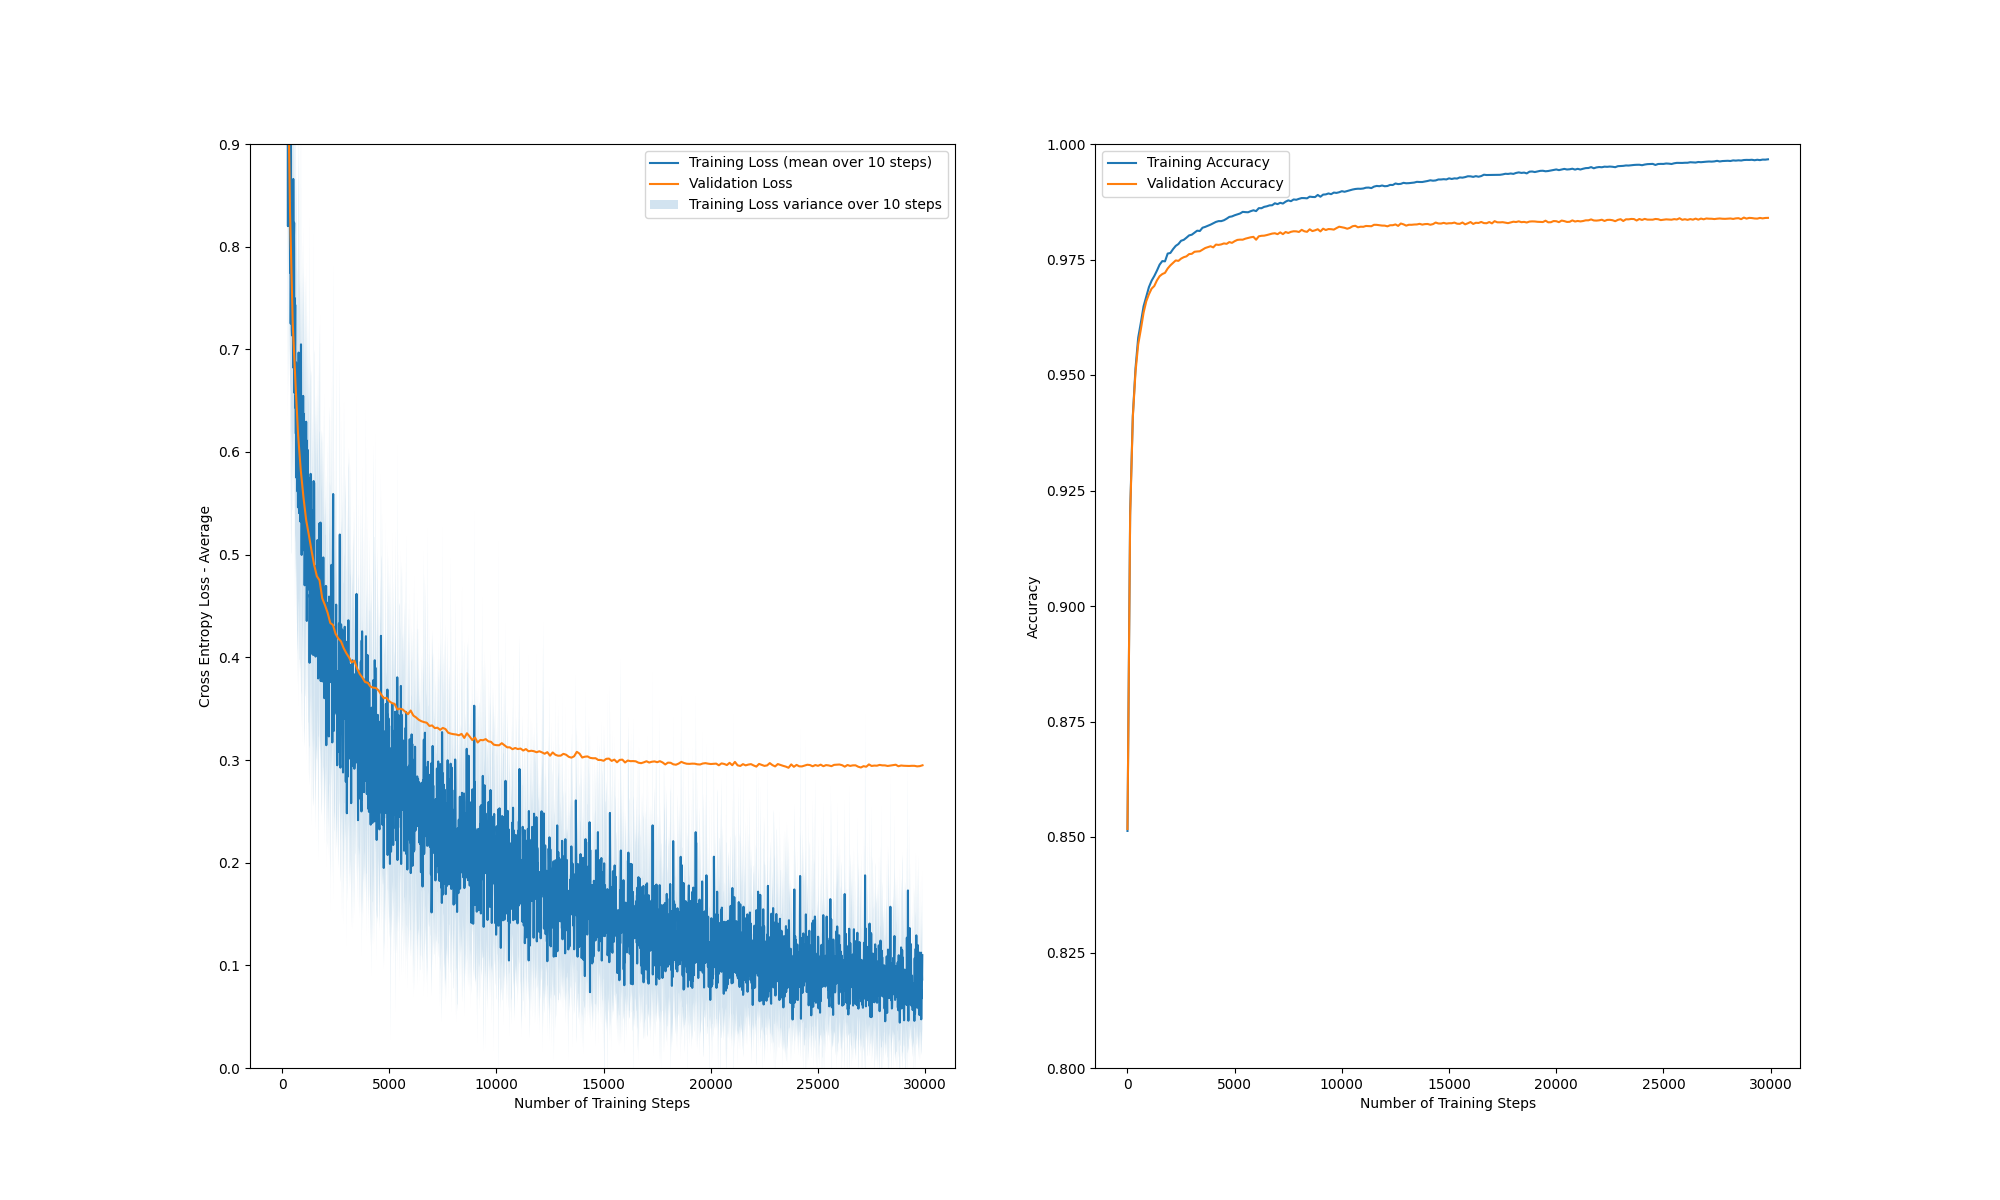
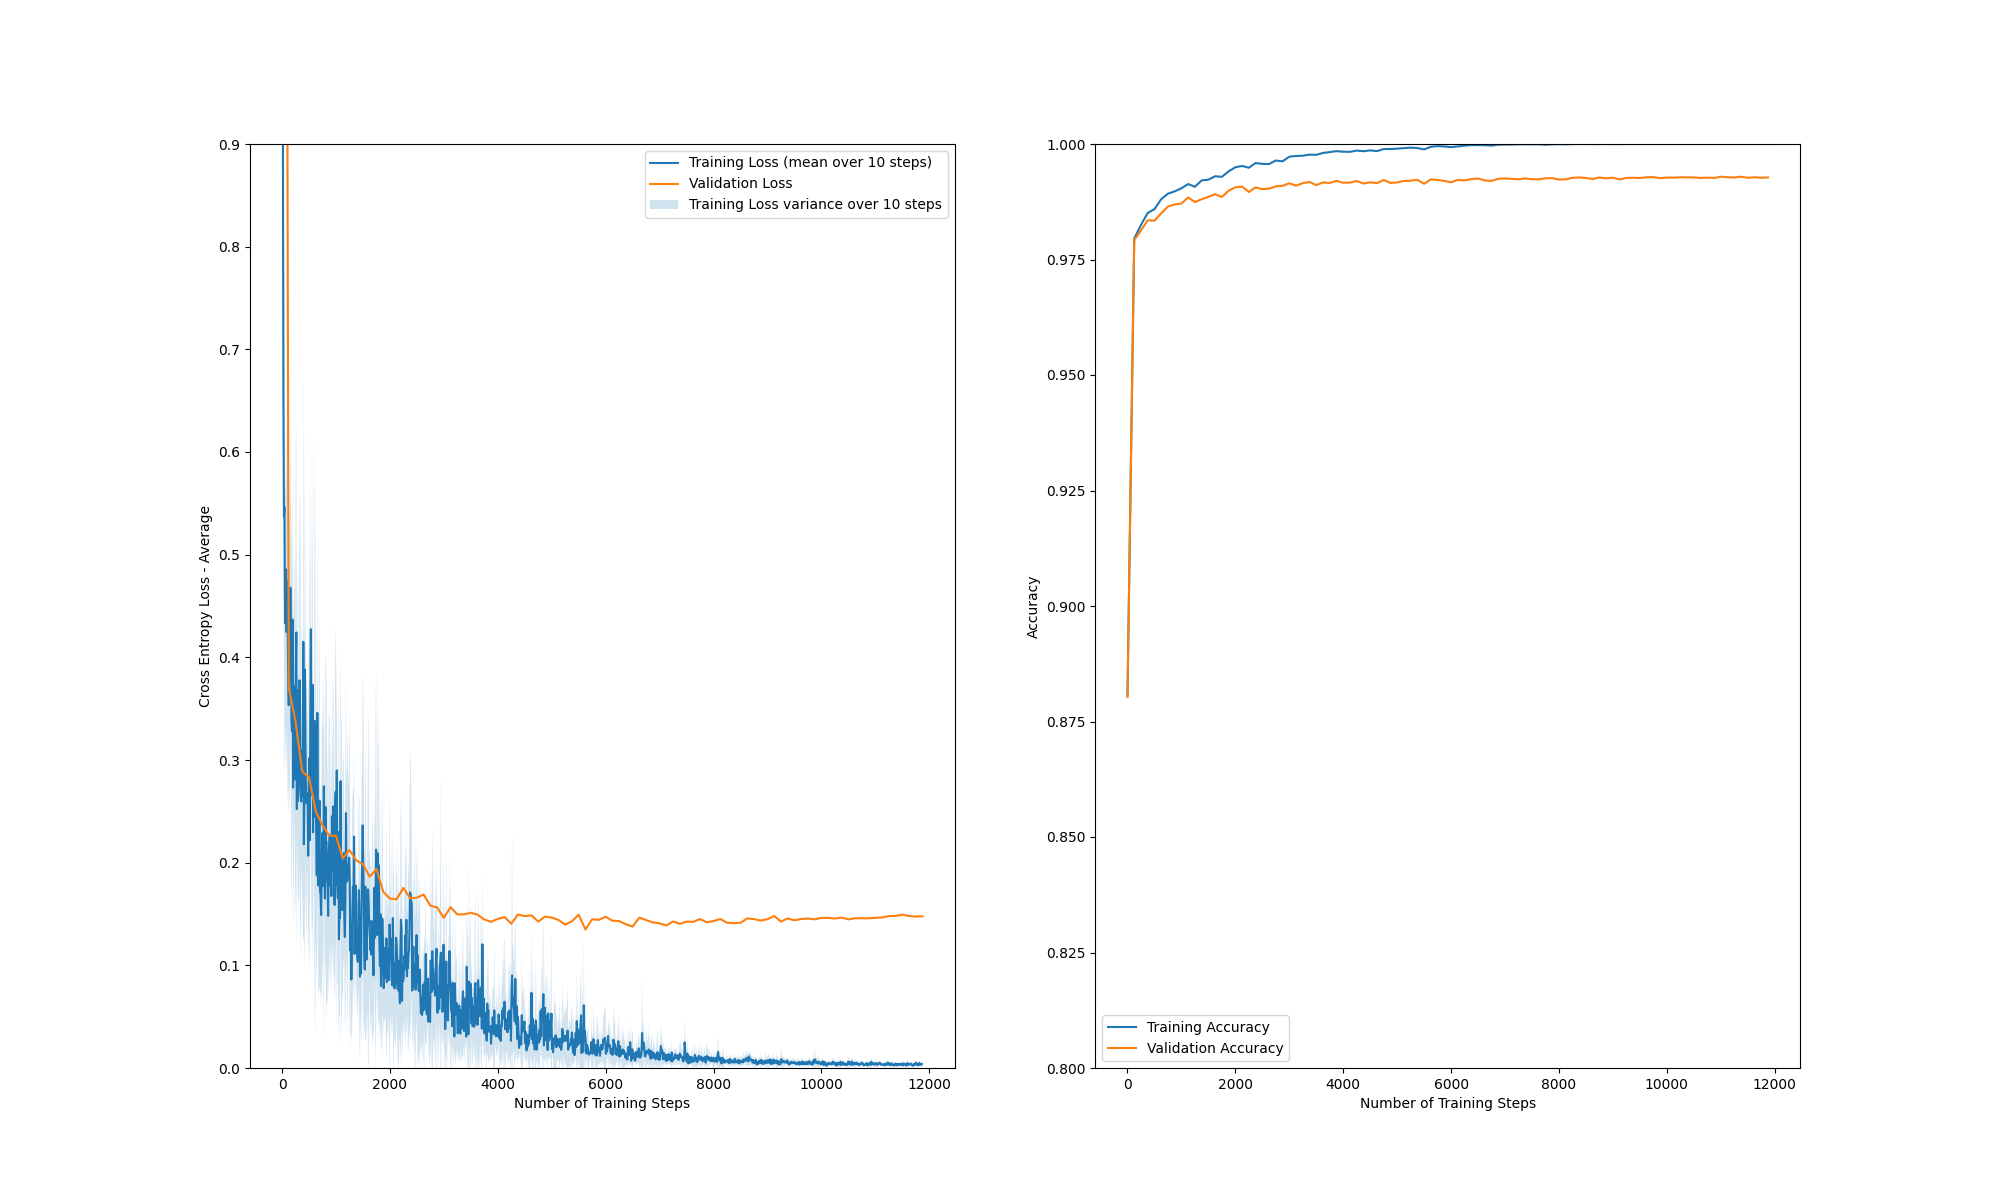
task 4 progression

diff --git a/assignment2/task3.py b/assignment2/task3.py
@@ -7,15 +7,15 @@ from task2 import SoftmaxTrainer
 def main():
     # hyperparameters DO NOT CHANGE IF NOT SPECIFIED IN ASSIGNMENT TEXT
     num_epochs = 50
-    learning_rate = .1
+    learning_rate = .02
     batch_size = 32
     neurons_per_layer = [64, 10]
     momentum_gamma = .9  # Task 3 hyperparameter
     shuffle_data = True
 
-    use_improved_sigmoid = False
-    use_improved_weight_init = False
-    use_momentum = False
+    use_improved_sigmoid = True
+    use_improved_weight_init = True
+    use_momentum = True
     use_relu = False
 
     # Load dataset
@@ -24,6 +24,10 @@ def main():
     X_val = pre_process_images(X_val)
     Y_train = one_hot_encode(Y_train, 10)
     Y_val = one_hot_encode(Y_val, 10)
+
+
+    # this is for task 4 a) and b).
+    # the commented out code below was used for task 3.
 
     model = SoftmaxModel(
         neurons_per_layer,
@@ -37,42 +41,131 @@ def main():
     )
     train_history, val_history = trainer.train(num_epochs)
 
+    model_32 = SoftmaxModel(
+        [32, 10],
+        use_improved_sigmoid,
+        use_improved_weight_init,
+        use_relu)
+    trainer_32 = SoftmaxTrainer(
+        momentum_gamma, use_momentum,
+        model_32, learning_rate, batch_size, shuffle_data,
+        X_train, Y_train, X_val, Y_val,
+    )
+    train_history_32, val_history_32 = trainer_32.train(num_epochs)
+
+    model_128 = SoftmaxModel(
+        [128, 10],
+        use_improved_sigmoid,
+        use_improved_weight_init,
+        use_relu)
+    trainer_128 = SoftmaxTrainer(
+        momentum_gamma, use_momentum,
+        model_128, learning_rate, batch_size, shuffle_data,
+        X_train, Y_train, X_val, Y_val,
+    )
+    train_history_128, val_history_128 = trainer_128.train(num_epochs)
+
+    plt.subplot(1, 2, 1)
+    plt.ylim([0, 0.55])
+    utils.plot_loss(train_history["loss"],"64 units", npoints_to_average=10)
+    utils.plot_loss(train_history_32["loss"],"32 units", npoints_to_average=10)
+    utils.plot_loss(train_history_128["loss"],"128 units", npoints_to_average=10)
+    plt.ylabel("Training Loss")
+    plt.legend()
+
+    plt.subplot(1, 2, 2)
+    plt.ylim([0.97, 1.0])
+    utils.plot_loss(val_history["accuracy"], "64 units")
+    utils.plot_loss(val_history_32["accuracy"], "32 units")
+    utils.plot_loss(val_history_128["accuracy"], "128 units")
+    plt.ylabel("Validation Accuracy")
+    plt.legend()
+    plt.savefig("task4a.png")
+    plt.show()
+
     # Example created for comparing with and without shuffling.
     # For comparison, show all loss/accuracy curves in the same plot
     # YOU CAN DELETE EVERYTHING BELOW!
 
-    shuffle_data = False
+    # use_improved_weight_init = True
 
-    # Train a new model with new parameters
-    model_no_shuffle = SoftmaxModel(
-        neurons_per_layer,
-        use_improved_sigmoid,
-        use_improved_weight_init,
-        use_relu)
-    trainer_shuffle = SoftmaxTrainer(
-        momentum_gamma, use_momentum,
-        model_no_shuffle, learning_rate, batch_size, shuffle_data,
-        X_train, Y_train, X_val, Y_val,
-    )
-    train_history_no_shuffle, val_history_no_shuffle = trainer_shuffle.train(
-        num_epochs)
+    # # Train a new model with new parameters
+    # model_glorot = SoftmaxModel(
+    #     neurons_per_layer,
+    #     use_improved_sigmoid,
+    #     use_improved_weight_init,
+    #     use_relu)
+    # trainer_glorot = SoftmaxTrainer(
+    #     momentum_gamma, use_momentum,
+    #     model_glorot, learning_rate, batch_size, shuffle_data,
+    #     X_train, Y_train, X_val, Y_val,
+    # )
+    # train_history_glorot, val_history_glorot = trainer_glorot.train(
+    #     num_epochs)
 
-    plt.subplot(1, 2, 1)
-    utils.plot_loss(train_history["loss"],
-                    "Task 2 Model", npoints_to_average=10)
-    utils.plot_loss(
-        train_history_no_shuffle["loss"], "Task 2 Model - No dataset shuffling", npoints_to_average=10)
-    plt.ylim([0, .4])
-    plt.subplot(1, 2, 2)
-    plt.ylim([0.85, .95])
-    utils.plot_loss(val_history["accuracy"], "Task 2 Model")
-    utils.plot_loss(
-        val_history_no_shuffle["accuracy"], "Task 2 Model - No Dataset Shuffling")
-    plt.ylabel("Validation Accuracy")
-    plt.legend()
-    plt.show()
-        use_improved_weight_init,
-    labels.append(
+    # use_improved_weight_init = True
+    # use_improved_sigmoid = True
+
+    # # Train a new model with new parameters
+    # model_glorot_sigmoid = SoftmaxModel(
+    #     neurons_per_layer,
+    #     use_improved_sigmoid,
+    #     use_improved_weight_init,
+    #     use_relu)
+    # trainer_glorot_sigmoid = SoftmaxTrainer(
+    #     momentum_gamma, use_momentum,
+    #     model_glorot_sigmoid, learning_rate, batch_size, shuffle_data,
+    #     X_train, Y_train, X_val, Y_val,
+    # )
+    # train_history_glorot_sigmoid, val_history_glorot_sigmoid = trainer_glorot_sigmoid.train(
+    #     num_epochs)
+
+    # use_improved_weight_init = True
+    # use_improved_sigmoid = True
+    # use_momentum = True
+    # learning_rate = .02
+
+    # # Train a new model with new parameters
+    # model_momentum = SoftmaxModel(
+    #     neurons_per_layer,
+    #     use_improved_sigmoid,
+    #     use_improved_weight_init,
+    #     use_relu)
+    # trainer_momentum = SoftmaxTrainer(
+    #     momentum_gamma, use_momentum,
+    #     model_momentum, learning_rate, batch_size, shuffle_data,
+    #     X_train, Y_train, X_val, Y_val,
+    # )
+    # train_history_momentum, val_history_momentum = trainer_momentum.train(
+    #     num_epochs)
+
+    # plt.subplot(1, 2, 1)
+    # utils.plot_loss(train_history["loss"],
+    #                 "Task 2 Model", npoints_to_average=10)
+    # utils.plot_loss(
+    #     train_history_glorot["loss"], "Task 2 Model - Xavier initialization", npoints_to_average=10)
+    # # add glorot_sigmoid
+    # utils.plot_loss(
+    #     train_history_glorot_sigmoid["loss"], "Task 2 Model - Xavier + improved Sigmoid", npoints_to_average=10)
+    # utils.plot_loss(
+    #     train_history_momentum["loss"], "Task 2 Model - Momentum + rest", npoints_to_average=10)
+    # plt.ylabel("Training Loss")
+    # plt.legend()
+    
+    # #plt.ylim([0, .4])
+    # plt.subplot(1, 2, 2)
+    # #plt.ylim([0.85, .95])
+    # utils.plot_loss(val_history["accuracy"], "Task 2 Model")
+    # utils.plot_loss(
+    #     val_history_glorot["accuracy"], "Task 2 Model - Xavier initialization")
+    # utils.plot_loss(
+    #     val_history_glorot_sigmoid["accuracy"], "Task 2 Model - Xavier + improved Sigmoid")
+    # utils.plot_loss(
+    #     val_history_momentum["accuracy"], "Task 2 Model - Momentum + rest")
+    # plt.ylabel("Validation Accuracy")
+    # plt.legend()
+    # plt.show()
+    # plt.savefig("task3.png")
 
 
 if __name__ == "__main__":

diff --git a/assignment2/task2a.py b/assignment2/task2a.py
@@ -49,9 +49,19 @@ def sigmoid(x: np.ndarray):
 def dsigmoid(x: np.ndarray):
     return sigmoid(x) * (1 - sigmoid(x))
 
+def improved_sigmoid(x: np.ndarray):
+    return 1.7159 * np.tanh((2/3) * x)
+
+def dimproved_sigmoid(x: np.ndarray):
+    return 1.7159 * (2 / (3 * np.cosh((2 / 3) * x) ** 2))
+
 def softmax(x: np.ndarray):
     exp = np.exp(x)
     return exp / np.sum(exp, axis=1, keepdims=True)
+
+def glorot(n_in: int, n_out: int):
+    return np.random.uniform(-1, 1, (n_in, n_out)) * np.sqrt(6/(n_in+n_out))
+
 
 
 class SoftmaxModel:
@@ -79,14 +89,19 @@ class SoftmaxModel:
         # Initialize the weights
         self.ws = []
         prev = self.I
+        
         for size in self.neurons_per_layer:
             w_shape = (prev, size)
-            print("Initializing weight to shape:", w_shape)
-            w = np.zeros(w_shape)
-            w = np.random.uniform(-1, 1, w_shape)
+            if self.use_improved_weight_init:
+                print("Glorot: Initializing weight to shape:", w_shape)
+                w = glorot(prev, size)
+            else:
+                print("Initializing weight to shape:", w_shape)
+                w = np.zeros(w_shape)
+                w = np.random.uniform(-1, 1, w_shape)
             self.ws.append(w)
             prev = size
-        self.grads = [None for i in range(len(self.ws))]
+            self.grads = [None for i in range(len(self.ws))]
 
     def forward(self, X: np.ndarray) -> np.ndarray:
         """
@@ -109,7 +124,10 @@ class SoftmaxModel:
                 X = softmax(X)
             else:
                 self.zs.append(X)
-                X = sigmoid(X)
+                if self.use_improved_sigmoid:
+                    X = improved_sigmoid(X)
+                else:
+                    X = sigmoid(X)
         return X
 
     def backward(self, X: np.ndarray, outputs: np.ndarray,
@@ -132,8 +150,17 @@ class SoftmaxModel:
         for i, w in reversed(list(enumerate(self.ws))):
             dw = np.einsum('ij,jk->ki', grad.T, self.inputs[i])/ X.shape[0]
             self.grads = [dw] + self.grads
-            if i == 1: # last layer
-                grad = np.einsum('ij,jk->ik', grad, w.T) * dsigmoid(self.zs[i - 1])
+            if i != 0: # last layer
+                grad = grad = grad.dot(w.T) * dimproved_sigmoid(self.zs[i-1]) 
+        # self.grads = []
+        # grad = - (targets - outputs)  #sol
+        # for i, w in reversed(list(enumerate(self.ws))):
+        #     #dW = delta.T.dot(self.inputs[i]) / X.shape[0]  #sol
+        #     dw = np.einsum('ij,jk->ki', grad.T, self.inputs[i])/ X.shape[0]
+        #     #dW = dW.T #sol
+        #     self.grads = [dw] + self.grads  #sol
+        #     if i != 0:  #sol
+        #         grad = dimproved_sigmoid(self.zs[i-1]) * grad.dot(w.T)  #sol
 
 
         for grad, w in zip(self.grads, self.ws):

diff --git a/assignment2/task2.py b/assignment2/task2.py
@@ -58,7 +58,11 @@ class SoftmaxTrainer(BaseTrainer):
         self.model.zero_grad()
         self.model.backward(X_batch, logits, Y_batch)
         for i, w in enumerate(self.model.ws):
-            self.model.ws[i] = w - self.learning_rate * self.model.grads[i]
+            if self.use_momentum:
+                self.previous_grads[i] = self.momentum_gamma * self.previous_grads[i] - self.learning_rate * self.model.grads[i]
+                self.model.ws[i] = w + self.previous_grads[i]
+            else:
+                self.model.ws[i] = w - self.learning_rate * self.model.grads[i]
         self.model.zero_grad()
         loss = cross_entropy_loss(Y_batch, logits)
         return loss
@@ -89,16 +93,16 @@ class SoftmaxTrainer(BaseTrainer):
 def main():
     # hyperparameters DO NOT CHANGE IF NOT SPECIFIED IN ASSIGNMENT TEXT
     num_epochs = 50
-    learning_rate = .1
+    learning_rate = .02
     batch_size = 32
     neurons_per_layer = [64, 10]
     momentum_gamma = .9  # Task 3 hyperparameter
     shuffle_data = True
 
     # Settings for task 2 and 3. Keep all to false for task 2.
-    use_improved_sigmoid = False
-    use_improved_weight_init = False
-    use_momentum = False
+    use_improved_sigmoid = True
+    use_improved_weight_init = True
+    use_momentum = True
     use_relu = False
 
     # Load dataset
